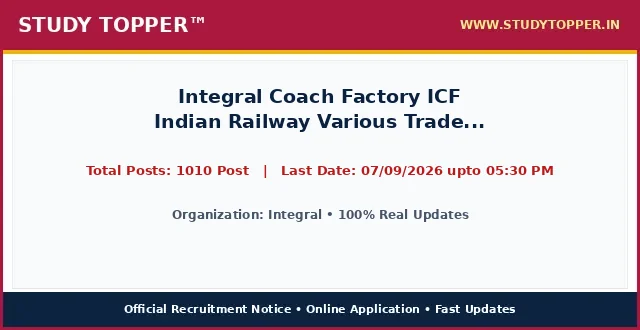
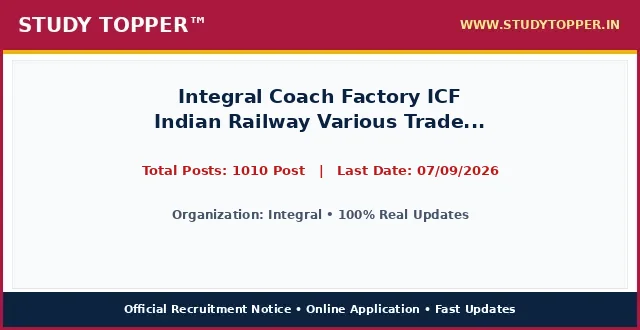
chore(lifecycle): daily auto-sort vacancies and update active dates

Changed region(s): [[0.125, 0.4848, 0.875, 0.5455]]

diff --git a/pages/icf-chennai-apprentices-202.html b/pages/icf-chennai-apprentices-202.html
@@ -987,8 +987,8 @@ ul.wp-block-latest-posts a:hover {
 <main class="site-main" id="main">
 <div class="gb-container gb-container-b39c368c">
 <h1 class="gb-headline gb-headline-e52a0102 gb-headline-text" style="font-size: 22px; font-weight: 700; color: #0000cd; text-align: left; margin: 8px 0 4px 0; line-height: 1.3; width: 100%; font-family: '-apple-system, BlinkMacSystemFont, 'Segoe UI', Roboto, 'Helvetica Neue', Arial, sans-serif', Times, serif, Hind, sans-serif;">Integral Coach Factory ICF Indian Railway Various Trade Apprentices Recruitment 2026 Apply Online for 1010 Post</h1>
-<div class="gb-container gb-container-659bd175"><p style="color: #cd0808; font-weight: 700; font-size: 15px; margin: 2px 0 7px 0; text-align: left; font-family: '-apple-system, BlinkMacSystemFont, 'Segoe UI', Roboto, 'Helvetica Neue', Arial, sans-serif', Times, serif, Hind, sans-serif;">Post Date: August 22, 2026 11:49 AM</p></div>
-<p class="gb-headline gb-headline-550ae316 short_Details gb-headline-text" style="width: 100%; max-width: 100%; font-size: 16.8px; line-height: 1.55; color: #000000; text-align: justify; text-justify: inter-word; margin: 8px 0 14px 0; display: block; font-family: '-apple-system, BlinkMacSystemFont, 'Segoe UI', Roboto, 'Helvetica Neue', Arial, sans-serif', Times, serif, Hind, sans-serif;"><strong style="color: #0000cd;">Integral</strong> has officially published the recruitment notice <strong style="color: #cd0808;">Integral Coach Factory ICF Indian Railway Various Trade Apprentices Recruitment 2026 Apply Online for 1010 Post</strong> under notification number Official Advt 2026. Online applications are invited for 1010 Post across multiple departments and cadre positions. Interested candidates possessing the requisite educational qualifications and falling between 18 Years to 40 Years can complete their online registration before the application deadline of 07/09/2026 upto 05:30 PM. Applicants should read the eligibility criteria, category reservation rules, and exam scheme thoroughly before submitting applications.</p>
+<div class="gb-container gb-container-659bd175"><p style="color: #cd0808; font-weight: 700; font-size: 15px; margin: 2px 0 7px 0; text-align: left; font-family: '-apple-system, BlinkMacSystemFont, 'Segoe UI', Roboto, 'Helvetica Neue', Arial, sans-serif', Times, serif, Hind, sans-serif;">Post Date: August 22, 2026 12:43 PM</p></div>
+<p class="gb-headline gb-headline-550ae316 short_Details gb-headline-text" style="width: 100%; max-width: 100%; font-size: 16.8px; line-height: 1.55; color: #000000; text-align: justify; text-justify: inter-word; margin: 8px 0 14px 0; display: block; font-family: '-apple-system, BlinkMacSystemFont, 'Segoe UI', Roboto, 'Helvetica Neue', Arial, sans-serif', Times, serif, Hind, sans-serif;"><strong style="color: #0000cd;">Integral</strong> has officially published the recruitment notice <strong style="color: #cd0808;">Integral Coach Factory ICF Indian Railway Various Trade Apprentices Recruitment 2026 Apply Online for 1010 Post</strong> under notification number 2026. Online applications are invited for 1010 Post across multiple departments and cadre positions. Interested candidates possessing the requisite educational qualifications and falling between 18 Years to 40 Years can complete their online registration before the application deadline of 07/09/2026. Applicants should read the eligibility criteria, category reservation rules, and exam scheme thoroughly before submitting applications.</p>
 <div class="gb-container gb-container-9849916c"><div class="social-buttons-compact" style="display: flex; justify-content: flex-start; align-items: center; gap: 10px; margin: 10px 0 16px 0; width: 100%;"><a class="social-btn-compact wa" href="https://whatsapp.com/channel/0029Va9xyz" rel="noopener" style="background-color: #00d084; color: #ffffff; padding: 10px 18px; border-radius: 4px; text-decoration: none; font-weight: bold; font-size: 15.5px; display: inline-flex; align-items: center; justify-content: center; height: auto;" target="_blank">WhatsApp</a><a class="social-btn-compact tg" href="https://t.me/studytopperofficial" rel="noopener" style="background-color: #0088cc; color: #ffffff; padding: 10px 18px; border-radius: 4px; text-decoration: none; font-weight: bold; font-size: 15.5px; display: inline-flex; align-items: center; justify-content: center; height: auto;" target="_blank">Telegram</a></div></div>
 <div class="gb-container gb-container-f58e6ca1" style="border: 2px solid #5b032f; border-radius: 4px; overflow: hidden; margin: 15px 0 20px 0; background-color: #ffffff; width: 100%; box-sizing: border-box;">
 <h2 class="gb-headline gb-headline-2ca5a791 gb-headline-text" style="font-size: 16px; font-weight: 700; text-align: center; color: #ef0303; line-height: 1.3; padding: 6px 4px; margin: 0; background: #ffffff; font-family: '-apple-system, BlinkMacSystemFont, 'Segoe UI', Roboto, 'Helvetica Neue', Arial, sans-serif', Times, serif, Hind, sans-serif;">Integral Coach Factory ICF Indian Railway Various Trade Apprentices Recruitment 2026 Apply Online for 1010 Post &ndash; Latest Details &amp; Updates</h2>
@@ -1025,7 +1025,7 @@ ul.wp-block-latest-posts a:hover {
     <div style="background-color: #5b032f; color: #ffffff; padding: 8px 10px; font-size: 20px; font-weight: 700; text-align: center; font-family: '-apple-system, BlinkMacSystemFont, 'Segoe UI', Roboto, 'Helvetica Neue', Arial, sans-serif', Times, serif, Hind, sans-serif;">Important Dates</div>
     <div style="padding: 12px 14px; background-color: #ffffff;">
       <ul style="padding-left: 20px; margin: 0; list-style-type: disc; text-align: left; font-size: 14pt; line-height: 1.6; font-family: '-apple-system, BlinkMacSystemFont, 'Segoe UI', Roboto, 'Helvetica Neue', Arial, sans-serif', Times, serif, Hind, sans-serif;">
-        <li><span style="font-size: 14pt;">Application Begin : <strong>08/08/2026</strong></span></li><li><span style="font-size: 14pt;">Last Date for Apply Online : <span style="color: #ff0000;"><strong>07/09/2026 upto 05:30 PM</strong></span></span></li><li><span style="font-size: 14pt;">Pay Exam Fee Last Date : <span style="color: #ff0000;"><strong>07/09/2026</strong></span></span></li><li><span style="font-size: 14pt;">ICF Apprentices Merit List : <strong>As per Schedule</strong></span></li>
+        <li><span style="font-size: 14pt;">Application Begin : <strong>08/08/2026</strong></span></li><li><span style="font-size: 14pt;">07/09/2026 upto 05 : <strong>30 PM</strong></span></li><li><span style="font-size: 14pt;">Pay Exam Fee Last Date : <span style="color: #ff0000;"><strong>07/09/2026</strong></span></span></li>
       </ul>
     </div>
   </div>
@@ -1034,7 +1034,7 @@ ul.wp-block-latest-posts a:hover {
     <div style="background-color: #5b032f; color: #ffffff; padding: 8px 10px; font-size: 20px; font-weight: 700; text-align: center; font-family: '-apple-system, BlinkMacSystemFont, 'Segoe UI', Roboto, 'Helvetica Neue', Arial, sans-serif', Times, serif, Hind, sans-serif;">Application Fee</div>
     <div style="padding: 12px 14px; background-color: #ffffff;">
       <ul style="padding-left: 20px; margin: 0; list-style-type: disc; text-align: left; font-size: 14pt; line-height: 1.6; font-family: '-apple-system, BlinkMacSystemFont, 'Segoe UI', Roboto, 'Helvetica Neue', Arial, sans-serif', Times, serif, Hind, sans-serif;">
-        <li><span style="font-size: 14pt;">General / OBC / EWS : <strong>100/-</strong></span></li><li><span style="font-size: 14pt;">SC / ST / PH : <strong>0/-</strong></span></li><li><span style="font-size: 14pt;">Female Candidate : <strong>0/-</strong></span></li>
+        <li><span style="font-size: 14pt;">General / OBC / EWS : <strong>100/-</strong></span></li><li><span style="font-size: 14pt;">SC / ST / PH : <strong>0/-</strong></span></li><li><span style="font-size: 14pt;">Female Candidate : <strong>0/-</strong></span></li><li><span style="font-size: 14pt;">Payment Mode : <strong>Pay the Exam Fee Through Online Debit Card, Credit Card, Net Banking, UPI Only.</strong></span></li>
       </ul>
       <div style="margin-top: 10px; font-size: 14pt; line-height: 1.5; color: #000000; border-top: 1px dashed #ccc; padding-top: 8px; font-family: '-apple-system, BlinkMacSystemFont, 'Segoe UI', Roboto, 'Helvetica Neue', Arial, sans-serif', Times, serif, Hind, sans-serif;">
         <strong>Mode of Payment / Access:</strong> Online via Net Banking, Debit Card, Credit Card, UPI or Free Candidate Portal.
@@ -1047,10 +1047,10 @@ ul.wp-block-latest-posts a:hover {
 <div class="st-grid-row" style="display: flex; flex-wrap: wrap; width: 100%; border-top: 2px solid #5b032f; margin: 0; padding: 0; box-sizing: border-box;">
   <!-- Left Col: Age Limits -->
   <div class="st-col-half st-col-border-right" style="box-sizing: border-box; vertical-align: top;">
-    <div style="background-color: #046132; color: #ffffff; padding: 8px 10px; font-size: 17px; font-weight: 700; text-align: center; font-family: '-apple-system, BlinkMacSystemFont, 'Segoe UI', Roboto, 'Helvetica Neue', Arial, sans-serif', Times, serif, Hind, sans-serif;">Integral : Age Limits As On 01 August 2026</div>
+    <div style="background-color: #046132; color: #ffffff; padding: 8px 10px; font-size: 17px; font-weight: 700; text-align: center; font-family: '-apple-system, BlinkMacSystemFont, 'Segoe UI', Roboto, 'Helvetica Neue', Arial, sans-serif', Times, serif, Hind, sans-serif;">Integral : Age Limits As On 07/09/2026</div>
     <div style="padding: 12px 14px; background-color: #ffffff;">
       <ul style="padding-left: 20px; margin: 0; list-style-type: disc; text-align: left; font-size: 14pt; line-height: 1.6; font-family: '-apple-system, BlinkMacSystemFont, 'Segoe UI', Roboto, 'Helvetica Neue', Arial, sans-serif', Times, serif, Hind, sans-serif;">
-        <li><span style="font-size: 14pt;">Age Relaxation Extra as per Integral Coach Factory ICF Chennai Apprentices Examination Rules Advt No 01/2026 : <strong>2027.</strong></span></li>
+        <li><span style="font-size: 14pt;">Age Relaxation : <strong>Age Relaxation Extra as per Integral Coach Factory ICF Chennai Apprentices Examination Rules Advt No 01/2026-2027.</strong></span></li>
       </ul>
     </div>
   </div>
@@ -1079,9 +1079,65 @@ ul.wp-block-latest-posts a:hover {
 <th style="background-color: #f53c00; color: #ffffff; padding: 6px 10px; text-align: center; border: 1px solid #d35400; font-size: 15px; font-weight: 700; font-family: '-apple-system, BlinkMacSystemFont, 'Segoe UI', Roboto, 'Helvetica Neue', Arial, sans-serif', Times, serif, Hind, sans-serif;">Eligibility Criteria</th>
 </tr>
 <tr>
-<td style="padding: 8px; border: 1px solid #ddd; font-weight: bold;">Integral Recruitment</td>
-<td style="padding: 8px; border: 1px solid #ddd; text-align: center; font-weight: bold;">1010 Post</td>
-<td style="padding: 8px; border: 1px solid #ddd;">Please refer to the official notification linked below for detailed educational qualifications.</td>
+<td style="padding: 8px; border: 1px solid #ddd; font-weight: bold;">Various Trade Apprentices Freshers</td>
+<td style="padding: 8px; border: 1px solid #ddd; text-align: center; font-weight: bold;">320</td>
+<td style="padding: 8px; border: 1px solid #ddd;">Class 10th with Minimum 50% Marks and Science & Maths Under 10+2 System. For Carpenter, Painter & Welder Trade : Class 10th Exam Passed with 50% Marks</td>
+</tr><tr>
+<td style="padding: 8px; border: 1px solid #ddd; font-weight: bold;">Various Trade Apprentices Ex ITI</td>
+<td style="padding: 8px; border: 1px solid #ddd; text-align: center; font-weight: bold;">670</td>
+<td style="padding: 8px; border: 1px solid #ddd;">Class 10th with 50% Marks and ITI Certificate in Related Trade / Branch. For Trade Wise Eligibility Details Read the Notification.</td>
+</tr><tr>
+<td style="padding: 8px; border: 1px solid #ddd; font-weight: bold;">MLT Radiology Freshers</td>
+<td style="padding: 8px; border: 1px solid #ddd; text-align: center; font-weight: bold;">10</td>
+<td style="padding: 8px; border: 1px solid #ddd;">10+2 Intermediate with PCB Stream.</td>
+</tr><tr>
+<td style="padding: 8px; border: 1px solid #ddd; font-weight: bold;">PASAA Ex ITI</td>
+<td style="padding: 8px; border: 1px solid #ddd; text-align: center; font-weight: bold;">10</td>
+<td style="padding: 8px; border: 1px solid #ddd;">Class 10th with 50% Marks and ITI Certificate of IT / COPA / Data Base System Assistant / Software Testing Assistant. More Eligibility Read the Notification.</td>
+</tr><tr>
+<td style="padding: 8px; border: 1px solid #ddd; font-weight: bold;">ICF Chennai Apprentices Notification 2026 : Trade Wise Vacancy Details Trade Name Freshers EX-ITI Carpenter 40 50 Electrician 40 160 Fitter 80 180 Machinist 40 50 Painter 40 50 Welder 80 180 MLT Radiology 5 0 MLT Pathology 5 0 PASAA 0 10</td>
+<td style="padding: 8px; border: 1px solid #ddd; text-align: center; font-weight: bold;">Trade Name</td>
+<td style="padding: 8px; border: 1px solid #ddd;">Freshers EX-ITI Carpenter 40 50 Electrician 40 160 Fitter 80 180 Machinist 40 50 Painter 40 50 Welder 80 180 MLT Radiology 5 0 MLT Pathology 5 0 PASAA 0 10</td>
+</tr><tr>
+<td style="padding: 8px; border: 1px solid #ddd; font-weight: bold;">Trade Name</td>
+<td style="padding: 8px; border: 1px solid #ddd; text-align: center; font-weight: bold;">Freshers</td>
+<td style="padding: 8px; border: 1px solid #ddd;">EX-ITI</td>
+</tr><tr>
+<td style="padding: 8px; border: 1px solid #ddd; font-weight: bold;">Carpenter</td>
+<td style="padding: 8px; border: 1px solid #ddd; text-align: center; font-weight: bold;">40</td>
+<td style="padding: 8px; border: 1px solid #ddd;">50</td>
+</tr><tr>
+<td style="padding: 8px; border: 1px solid #ddd; font-weight: bold;">Electrician</td>
+<td style="padding: 8px; border: 1px solid #ddd; text-align: center; font-weight: bold;">40</td>
+<td style="padding: 8px; border: 1px solid #ddd;">160</td>
+</tr><tr>
+<td style="padding: 8px; border: 1px solid #ddd; font-weight: bold;">Fitter</td>
+<td style="padding: 8px; border: 1px solid #ddd; text-align: center; font-weight: bold;">80</td>
+<td style="padding: 8px; border: 1px solid #ddd;">180</td>
+</tr><tr>
+<td style="padding: 8px; border: 1px solid #ddd; font-weight: bold;">Machinist</td>
+<td style="padding: 8px; border: 1px solid #ddd; text-align: center; font-weight: bold;">40</td>
+<td style="padding: 8px; border: 1px solid #ddd;">50</td>
+</tr><tr>
+<td style="padding: 8px; border: 1px solid #ddd; font-weight: bold;">Painter</td>
+<td style="padding: 8px; border: 1px solid #ddd; text-align: center; font-weight: bold;">40</td>
+<td style="padding: 8px; border: 1px solid #ddd;">50</td>
+</tr><tr>
+<td style="padding: 8px; border: 1px solid #ddd; font-weight: bold;">Welder</td>
+<td style="padding: 8px; border: 1px solid #ddd; text-align: center; font-weight: bold;">80</td>
+<td style="padding: 8px; border: 1px solid #ddd;">180</td>
+</tr><tr>
+<td style="padding: 8px; border: 1px solid #ddd; font-weight: bold;">MLT Radiology</td>
+<td style="padding: 8px; border: 1px solid #ddd; text-align: center; font-weight: bold;">5</td>
+<td style="padding: 8px; border: 1px solid #ddd;">0</td>
+</tr><tr>
+<td style="padding: 8px; border: 1px solid #ddd; font-weight: bold;">MLT Pathology</td>
+<td style="padding: 8px; border: 1px solid #ddd; text-align: center; font-weight: bold;">5</td>
+<td style="padding: 8px; border: 1px solid #ddd;">0</td>
+</tr><tr>
+<td style="padding: 8px; border: 1px solid #ddd; font-weight: bold;">PASAA</td>
+<td style="padding: 8px; border: 1px solid #ddd; text-align: center; font-weight: bold;">0</td>
+<td style="padding: 8px; border: 1px solid #ddd;">10</td>
 </tr>
 </tbody>
 </table>
@@ -1096,7 +1152,7 @@ ul.wp-block-latest-posts a:hover {
 <td style="width: 100%; text-align: center;"><span style="background-color: #000080; color: #ffffff; font-size: 14pt; font-weight: bold; display: block; padding: 6px;"> How to Fill Integral Online Application Form </span></td>
 </tr>
 <tr>
-<td style="width: 100%;"><ol style="margin:0; padding-left:18px; text-align: left !important; list-style-position: outside !important"><li style="margin-bottom:6px; text-align: left !important;">Read the official recruitment notification carefully before applying.</li><li style="margin-bottom:6px; text-align: left !important;">Keep all basic documents ready: ID Proof, Address Details, Basic Details.</li><li style="margin-bottom:6px; text-align: left !important;">Ready your scanned documents like Photo, Signature, ID Proof, etc.</li><li style="margin-bottom:6px; text-align: left !important;">Click on the 'Apply Online' link given in the Important Links section below.</li><li style="margin-bottom:6px; text-align: left !important;">Fill out all the columns in the application form accurately.</li><li style="margin-bottom:6px; text-align: left !important;">Pay the required application fee if applicable.</li><li style="margin-bottom:6px; text-align: left !important;">Take a printout of the final submitted application form.</li><li style="margin-bottom:6px; text-align: left !important;">Resize candidate photograph and signature accurately using the <a href="https://indtool.in" rel="noopener" target="_blank"><strong>StudyTopper Tools</strong></a> image resizer at indtool.in.</li></ol></td>
+<td style="width: 100%;"><ol style="margin:0; padding-left:18px; text-align: left !important; list-style-position: outside !important"><li style="margin-bottom:6px; text-align: left !important;">Integral Coach Factory ICF Are Issued Apprentices Various Trade 2026. Notification and Invited Online Application Form for the Integral Coach Factory ICF Recruitment 2026 Candidate Can Apply Online for</li><li style="margin-bottom:6px; text-align: left !important;">08/08/2026 to 07/09/2026.</li><li style="margin-bottom:6px; text-align: left !important;">Kindly Check and Collect the All Document – Hand Writing, Eligibility, ID Proof, Address Details, Basic Details.</li><li style="margin-bottom:6px; text-align: left !important;">Kindly Ready Scan Document Related to Recruitment Form – Photo, Sign, ID, Thumb, Proof, Etc.</li><li style="margin-bottom:6px; text-align: left !important;">Before Submit the Application Form Must Check the Preview and All Column Carefully.</li><li style="margin-bottom:6px; text-align: left !important;">If Candidate Required to Paying the Application Fee Must Submit. If You have Not the Required Application Fees Your Form is Not Completed.</li><li style="margin-bottom:6px; text-align: left !important;">Take A Print Out of Final Submitted Form.</li><li style="margin-bottom:6px; text-align: left !important;">Resize candidate photograph and signature accurately using the <a href="https://indtool.in" rel="noopener" target="_blank"><strong>StudyTopper Tools</strong></a> image resizer at indtool.in.</li></ol></td>
 </tr>
 </tbody>
 </table>
@@ -1144,42 +1200,74 @@ ul.wp-block-latest-posts a:hover {
 
 <tr style="border-bottom: 1px solid #000000; background-color: #fff37a;">
 <td style="width: 50%; padding: 14px 16px; border-right: 1px solid #000000; text-align: center;">
-<span style="font-size: 19px; font-weight: 800; color: #000000; font-family: '-apple-system, BlinkMacSystemFont, 'Segoe UI', Roboto, 'Helvetica Neue', Arial, sans-serif', Times, serif, Hind, sans-serif;">Apply Online Link</span>
+<span style="font-size: 19px; font-weight: 800; color: #000000; font-family: '-apple-system, BlinkMacSystemFont, 'Segoe UI', Roboto, 'Helvetica Neue', Arial, sans-serif', Times, serif, Hind, sans-serif;">Sarkari Result Android App</span>
 </td>
 <td style="width: 50%; padding: 14px 16px; text-align: center;">
-<span style="font-size: 20px; font-weight: 800; font-family: '-apple-system, BlinkMacSystemFont, 'Segoe UI', Roboto, 'Helvetica Neue', Arial, sans-serif', Times, serif, Hind, sans-serif;"><a href="https://icf.indianrailways.gov.in/" aria-label="Click Here for Apply Online Link - Integral Coach Factory ICF Indian Railway Various Trade Apprentices Recruitment 2026 Apply Online for 1010 Post" rel="noopener noreferrer" style="color: #0000ef; font-weight: 800; text-decoration: none;" target="_blank">Click Here</a></span>
+<span style="font-size: 20px; font-weight: 800; font-family: '-apple-system, BlinkMacSystemFont, 'Segoe UI', Roboto, 'Helvetica Neue', Arial, sans-serif', Times, serif, Hind, sans-serif;"><a href="https://itunes.apple.com/us/app/sarkari-result/id1051363935?ls=1&mt=8" aria-label="Click Here for Sarkari Result Android App - Integral Coach Factory ICF Indian Railway Various Trade Apprentices Recruitment 2026 Apply Online for 1010 Post" rel="noopener noreferrer" style="color: #0000ef; font-weight: 800; text-decoration: none;" target="_blank">Click Here</a></span>
 </td>
 </tr>
 <tr style="border-bottom: 1px solid #000000; background-color: #fff37a;">
 <td style="width: 50%; padding: 14px 16px; border-right: 1px solid #000000; text-align: center;">
-<span style="font-size: 19px; font-weight: 800; color: #000000; font-family: '-apple-system, BlinkMacSystemFont, 'Segoe UI', Roboto, 'Helvetica Neue', Arial, sans-serif', Times, serif, Hind, sans-serif;">Check Official Notification</span>
+<span style="font-size: 19px; font-weight: 800; color: #000000; font-family: '-apple-system, BlinkMacSystemFont, 'Segoe UI', Roboto, 'Helvetica Neue', Arial, sans-serif', Times, serif, Hind, sans-serif;">Apply Online</span>
 </td>
 <td style="width: 50%; padding: 14px 16px; text-align: center;">
-<span style="font-size: 20px; font-weight: 800; font-family: '-apple-system, BlinkMacSystemFont, 'Segoe UI', Roboto, 'Helvetica Neue', Arial, sans-serif', Times, serif, Hind, sans-serif;"><a href="https://icf.indianrailways.gov.in/" aria-label="Click Here for Check Official Notification - Integral Coach Factory ICF Indian Railway Various Trade Apprentices Recruitment 2026 Apply Online for 1010 Post" rel="noopener noreferrer" style="color: #0000ef; font-weight: 800; text-decoration: none;" target="_blank">Click Here</a></span>
+<span style="font-size: 20px; font-weight: 800; font-family: '-apple-system, BlinkMacSystemFont, 'Segoe UI', Roboto, 'Helvetica Neue', Arial, sans-serif', Times, serif, Hind, sans-serif;"><a href="https://pb.icf.gov.in/act2026/index.php" aria-label="Click Here for Apply Online - Integral Coach Factory ICF Indian Railway Various Trade Apprentices Recruitment 2026 Apply Online for 1010 Post" rel="noopener noreferrer" style="color: #0000ef; font-weight: 800; text-decoration: none;" target="_blank">Click Here</a></span>
 </td>
 </tr>
 <tr style="border-bottom: 1px solid #000000; background-color: #fff37a;">
 <td style="width: 50%; padding: 14px 16px; border-right: 1px solid #000000; text-align: center;">
-<span style="font-size: 19px; font-weight: 800; color: #000000; font-family: '-apple-system, BlinkMacSystemFont, 'Segoe UI', Roboto, 'Helvetica Neue', Arial, sans-serif', Times, serif, Hind, sans-serif;">Photo / Sign Resizer Tool</span>
+<span style="font-size: 19px; font-weight: 800; color: #000000; font-family: '-apple-system, BlinkMacSystemFont, 'Segoe UI', Roboto, 'Helvetica Neue', Arial, sans-serif', Times, serif, Hind, sans-serif;">How To Fill Form (Hindi Video)</span>
 </td>
 <td style="width: 50%; padding: 14px 16px; text-align: center;">
-<span style="font-size: 20px; font-weight: 800; font-family: '-apple-system, BlinkMacSystemFont, 'Segoe UI', Roboto, 'Helvetica Neue', Arial, sans-serif', Times, serif, Hind, sans-serif;"><a href="https://indtool.in" aria-label="Click Here for Photo / Sign Resizer Tool - Integral Coach Factory ICF Indian Railway Various Trade Apprentices Recruitment 2026 Apply Online for 1010 Post" rel="noopener noreferrer" style="color: #0000ef; font-weight: 800; text-decoration: none;" target="_blank">Click Here</a></span>
+<span style="font-size: 20px; font-weight: 800; font-family: '-apple-system, BlinkMacSystemFont, 'Segoe UI', Roboto, 'Helvetica Neue', Arial, sans-serif', Times, serif, Hind, sans-serif;"><a href="https://youtu.be/nowYZhtUb_c" aria-label="Click Here for How To Fill Form (Hindi Video) - Integral Coach Factory ICF Indian Railway Various Trade Apprentices Recruitment 2026 Apply Online for 1010 Post" rel="noopener noreferrer" style="color: #0000ef; font-weight: 800; text-decoration: none;" target="_blank">Click Here</a></span>
 </td>
 </tr>
 <tr style="border-bottom: 1px solid #000000; background-color: #fff37a;">
+<td style="width: 50%; padding: 14px 16px; border-right: 1px solid #000000; text-align: center;">
+<span style="font-size: 19px; font-weight: 800; color: #000000; font-family: '-apple-system, BlinkMacSystemFont, 'Segoe UI', Roboto, 'Helvetica Neue', Arial, sans-serif', Times, serif, Hind, sans-serif;">Download Notification</span>
+</td>
+<td style="width: 50%; padding: 14px 16px; text-align: center;">
+<span style="font-size: 20px; font-weight: 800; font-family: '-apple-system, BlinkMacSystemFont, 'Segoe UI', Roboto, 'Helvetica Neue', Arial, sans-serif', Times, serif, Hind, sans-serif;"><a href="https://doc.sarkariresults.org.in/ICF_SarkariResult.Com_Act_Apprentice_2026_27.pdf" aria-label="Click Here for Download Notification - Integral Coach Factory ICF Indian Railway Various Trade Apprentices Recruitment 2026 Apply Online for 1010 Post" rel="noopener noreferrer" style="color: #0000ef; font-weight: 800; text-decoration: none;" target="_blank">Click Here</a></span>
+</td>
+</tr>
+<tr style="border-bottom: 1px solid #000000; background-color: #fff37a;">
+<td style="width: 50%; padding: 14px 16px; border-right: 1px solid #000000; text-align: center;">
+<span style="font-size: 19px; font-weight: 800; color: #000000; font-family: '-apple-system, BlinkMacSystemFont, 'Segoe UI', Roboto, 'Helvetica Neue', Arial, sans-serif', Times, serif, Hind, sans-serif;">Signature Resizer, PDF Compress, Age Calculator and More Tools</span>
+</td>
+<td style="width: 50%; padding: 14px 16px; text-align: center;">
+<span style="font-size: 20px; font-weight: 800; font-family: '-apple-system, BlinkMacSystemFont, 'Segoe UI', Roboto, 'Helvetica Neue', Arial, sans-serif', Times, serif, Hind, sans-serif;"><a href="https://sarkariresultportal.com/" aria-label="Click Here for Signature Resizer, PDF Compress, Age Calculator and More Tools - Integral Coach Factory ICF Indian Railway Various Trade Apprentices Recruitment 2026 Apply Online for 1010 Post" rel="noopener noreferrer" style="color: #0000ef; font-weight: 800; text-decoration: none;" target="_blank">Click Here</a></span>
+</td>
+</tr>
+<tr style="border-bottom: 1px solid #000000; background-color: #fff37a;">
+<td style="width: 50%; padding: 14px 16px; border-right: 1px solid #000000; text-align: center;">
+<span style="font-size: 19px; font-weight: 800; color: #000000; font-family: '-apple-system, BlinkMacSystemFont, 'Segoe UI', Roboto, 'Helvetica Neue', Arial, sans-serif', Times, serif, Hind, sans-serif;">Join Sarkari Result Channel</span>
+</td>
+<td style="width: 50%; padding: 14px 16px; text-align: center;">
+<span style="font-size: 20px; font-weight: 800; font-family: '-apple-system, BlinkMacSystemFont, 'Segoe UI', Roboto, 'Helvetica Neue', Arial, sans-serif', Times, serif, Hind, sans-serif;"><a href="https://t.me/SarkariResult2012" aria-label="Click Here for Join Sarkari Result Channel - Integral Coach Factory ICF Indian Railway Various Trade Apprentices Recruitment 2026 Apply Online for 1010 Post" rel="noopener noreferrer" style="color: #0000ef; font-weight: 800; text-decoration: none;" target="_blank">Click Here</a></span>
+</td>
+</tr>
+<tr style="border-bottom: 1px solid #000000; background-color: #fff37a;">
+<td style="width: 50%; padding: 14px 16px; border-right: 1px solid #000000; text-align: center;">
+<span style="font-size: 19px; font-weight: 800; color: #000000; font-family: '-apple-system, BlinkMacSystemFont, 'Segoe UI', Roboto, 'Helvetica Neue', Arial, sans-serif', Times, serif, Hind, sans-serif;">Join Sarkari Result Channel</span>
+</td>
+<td style="width: 50%; padding: 14px 16px; text-align: center;">
+<span style="font-size: 20px; font-weight: 800; font-family: '-apple-system, BlinkMacSystemFont, 'Segoe UI', Roboto, 'Helvetica Neue', Arial, sans-serif', Times, serif, Hind, sans-serif;"><a href="https://whatsapp.com/channel/0029Va5IElwBlHpVBd6i5a18" aria-label="Click Here for Join Sarkari Result Channel - Integral Coach Factory ICF Indian Railway Various Trade Apprentices Recruitment 2026 Apply Online for 1010 Post" rel="noopener noreferrer" style="color: #0000ef; font-weight: 800; text-decoration: none;" target="_blank">Click Here</a></span>
+</td>
+</tr>
+<tr style="border-bottom: 1px solid #000000; background-color: #fff37a;">
+<td style="width: 50%; padding: 14px 16px; border-right: 1px solid #000000; text-align: center;">
+<span style="font-size: 19px; font-weight: 800; color: #000000; font-family: '-apple-system, BlinkMacSystemFont, 'Segoe UI', Roboto, 'Helvetica Neue', Arial, sans-serif', Times, serif, Hind, sans-serif;">Official Website</span>
+</td>
+<td style="width: 50%; padding: 14px 16px; text-align: center;">
+<span style="font-size: 20px; font-weight: 800; font-family: '-apple-system, BlinkMacSystemFont, 'Segoe UI', Roboto, 'Helvetica Neue', Arial, sans-serif', Times, serif, Hind, sans-serif;"><a href="https://icf.indianrailways.gov.in/" aria-label="Click Here for Official Website - Integral Coach Factory ICF Indian Railway Various Trade Apprentices Recruitment 2026 Apply Online for 1010 Post" rel="noopener noreferrer" style="color: #0000ef; font-weight: 800; text-decoration: none;" target="_blank">Click Here</a></span>
+</td>
+</tr>
+<tr style=" background-color: #fff37a;">
 <td style="width: 50%; padding: 14px 16px; border-right: 1px solid #000000; text-align: center;">
 <span style="font-size: 19px; font-weight: 800; color: #000000; font-family: '-apple-system, BlinkMacSystemFont, 'Segoe UI', Roboto, 'Helvetica Neue', Arial, sans-serif', Times, serif, Hind, sans-serif;">Check Sarkari Result</span>
 </td>
 <td style="width: 50%; padding: 14px 16px; text-align: center;">
 <span style="font-size: 20px; font-weight: 800; font-family: '-apple-system, BlinkMacSystemFont, 'Segoe UI', Roboto, 'Helvetica Neue', Arial, sans-serif', Times, serif, Hind, sans-serif;"><a href="/" aria-label="Click Here for Check Sarkari Result - Integral Coach Factory ICF Indian Railway Various Trade Apprentices Recruitment 2026 Apply Online for 1010 Post" rel="noopener noreferrer" style="color: #0000ef; font-weight: 800; text-decoration: none;" >Click Here</a></span>
-</td>
-</tr>
-<tr style=" background-color: #fff37a;">
-<td style="width: 50%; padding: 14px 16px; border-right: 1px solid #000000; text-align: center;">
-<span style="font-size: 19px; font-weight: 800; color: #000000; font-family: '-apple-system, BlinkMacSystemFont, 'Segoe UI', Roboto, 'Helvetica Neue', Arial, sans-serif', Times, serif, Hind, sans-serif;">Integral Website</span>
-</td>
-<td style="width: 50%; padding: 14px 16px; text-align: center;">
-<span style="font-size: 20px; font-weight: 800; font-family: '-apple-system, BlinkMacSystemFont, 'Segoe UI', Roboto, 'Helvetica Neue', Arial, sans-serif', Times, serif, Hind, sans-serif;"><a href="https://icf.indianrailways.gov.in/" aria-label="Click Here for Integral Website - Integral Coach Factory ICF Indian Railway Various Trade Apprentices Recruitment 2026 Apply Online for 1010 Post" rel="noopener noreferrer" style="color: #0000ef; font-weight: 800; text-decoration: none;" target="_blank">Click Here</a></span>
 </td>
 </tr>
 </tbody>
@@ -1192,11 +1280,11 @@ ul.wp-block-latest-posts a:hover {
   </h3>
   <div style="font-size: 14.5px; line-height: 1.65; color: #222222;">
     <p style="margin: 0 0 4px 0;"><strong style="color: #000080;">Q1. What is the last date to apply for Integral Coach Factory ICF Indian Railway Various Trade Apprentices Recruitment 2026 Apply Online for 1010 Post?</strong></p>
-<p style="margin: 0 0 16px 0; color: #333333; line-height: 1.6;">Ans. The last date for online submission of application is 07/09/2026 upto 05:30 PM.</p><p style="margin: 0 0 4px 0;"><strong style="color: #000080;">Q2. What is the age limit for Integral Coach Factory ICF Indian Railway Various Trade Apprentices Recruitment 2026 Apply Online for 1010 Post?</strong></p>
-<p style="margin: 0 0 16px 0; color: #333333; line-height: 1.6;">Ans. Candidate age should generally be between 18 Years and 40 Years as on 01 August 2026. Age relaxation is applicable per rules.</p><p style="margin: 0 0 4px 0;"><strong style="color: #000080;">Q3. What is the application fee for Integral Coach Factory ICF Indian Railway Various Trade Apprentices Recruitment 2026 Apply Online for 1010 Post?</strong></p>
+<p style="margin: 0 0 16px 0; color: #333333; line-height: 1.6;">Ans. The last date for online submission of application is 07/09/2026.</p><p style="margin: 0 0 4px 0;"><strong style="color: #000080;">Q2. What is the age limit for Integral Coach Factory ICF Indian Railway Various Trade Apprentices Recruitment 2026 Apply Online for 1010 Post?</strong></p>
+<p style="margin: 0 0 16px 0; color: #333333; line-height: 1.6;">Ans. Candidate age should generally be between 18 Years and 40 Years as on 07/09/2026. Age relaxation is applicable per rules.</p><p style="margin: 0 0 4px 0;"><strong style="color: #000080;">Q3. What is the application fee for Integral Coach Factory ICF Indian Railway Various Trade Apprentices Recruitment 2026 Apply Online for 1010 Post?</strong></p>
 <p style="margin: 0 0 16px 0; color: #333333; line-height: 1.6;">Ans. Application fee varies by category (e.g., General/OBC: 100/-, SC/ST/PwD: Exempted).</p><p style="margin: 0 0 4px 0;"><strong style="color: #000080;">Q4. How many total posts are available in Integral Coach Factory ICF Indian Railway Various Trade Apprentices Recruitment 2026 Apply Online for 1010 Post?</strong></p>
 <p style="margin: 0 0 16px 0; color: #333333; line-height: 1.6;">Ans. A total of 1010 Post have been officially announced for this recruitment drive.</p><p style="margin: 0 0 4px 0;"><strong style="color: #000080;">Q5. How can I apply online for Integral Coach Factory ICF Indian Railway Various Trade Apprentices Recruitment 2026 Apply Online for 1010 Post?</strong></p>
-<p style="margin: 0 0 0 0; color: #333333; line-height: 1.6;">Ans. Eligible candidates can click the 'Apply Online' link in the Important Links table, register, fill details, resize photo/signature via indtool.in, and submit before 07/09/2026 upto 05:30 PM.</p>
+<p style="margin: 0 0 0 0; color: #333333; line-height: 1.6;">Ans. Eligible candidates can click the 'Apply Online' link in the Important Links table, register, fill details, resize photo/signature via indtool.in, and submit before 07/09/2026.</p>
   </div>
 </div>
 
